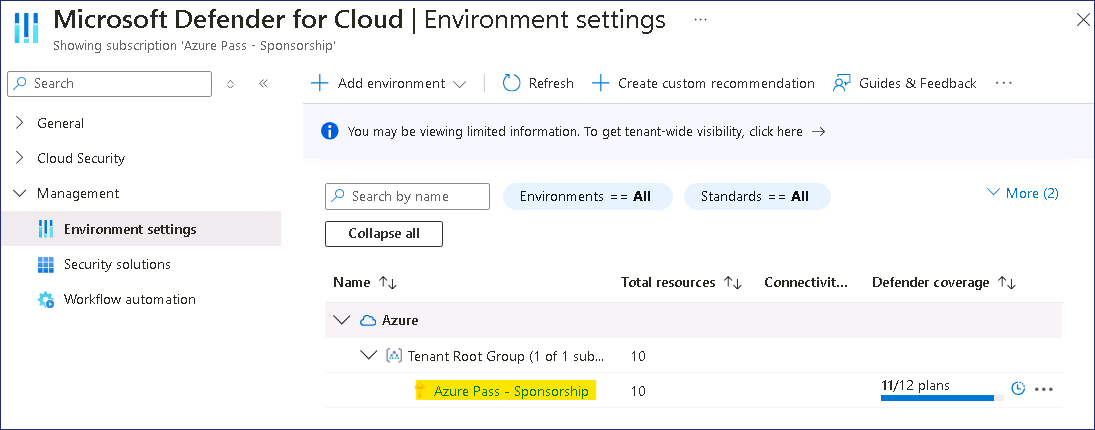
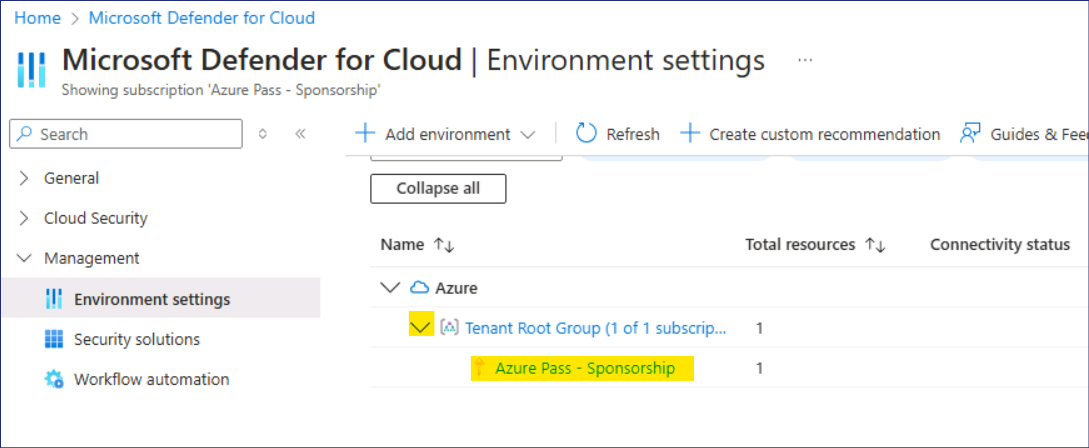
Lab 1 updates

diff --git a/Lab Guides/Lab 1 - Preparing your lab environment/Lab 1 - Preparing your lab environment.md b/Lab Guides/Lab 1 - Preparing your lab environment/Lab 1 - Preparing your lab environment.md
@@ -259,7 +259,7 @@ in order for discovery to identify the apps installed on them.
     ![](./media/image83.png)
 
 
-5.  On Microsoft Defender for Cloud page, under the **General** section,
+5.  Refresh the browser and then in **Microsoft Defender for Cloud** page, under the **General** section,
     navigate and click on **Getting started**. In the **Upgrade** tab,
     navigate and click on the **Upgrade** button.
 
@@ -268,32 +268,14 @@ in order for discovery to identify the apps installed on them.
     ![A screenshot of a computer Description automatically
     generated](./media/image7.png)
 
-6.  You’ll receive a notification stating **Trial started**.
-
-    ![A screenshot of a computer Description automatically generated with
-    low confidence](./media/image8.png)
-
-7.  In **Microsoft Defender for Cloud | Getting started** page, click on
-    the **Install agents** tab, select your active **Azure
-    Subscription** as shown in the below image, then click on the
-    **Install agents button.**
-
-    ![A screenshot of a computer Description automatically
-    generated](./media/image9.png)
-
-8.  **You’ll receive a notification Agents installation initiated.**
-
-    ![A screenshot of a computer Description automatically generated with
-    low confidence](./media/image10.png)
-
 ## Task 2: Enable additional data collection setting for Defender for Cloud
 
-1.  On Microsoft Defender for Cloud page, navigate to **Management**
+1.  On **Microsoft Defender for Cloud** page, navigate to **Management**
     section and click on **Environment settings.**
 
     > ![A screenshot of a computer Description automatically generated](./media/image11.png)
 
-2.  Click on the **Azure Pass – Sponsorship** Subscription listed.
+2.  Scroll down and then expand Tenant-Root-Group and then click on the **Azure Pass – Sponsorship** Subscription listed.
 
     ![A screenshot of a computer Description automatically generated](./media/image12.png)
 
